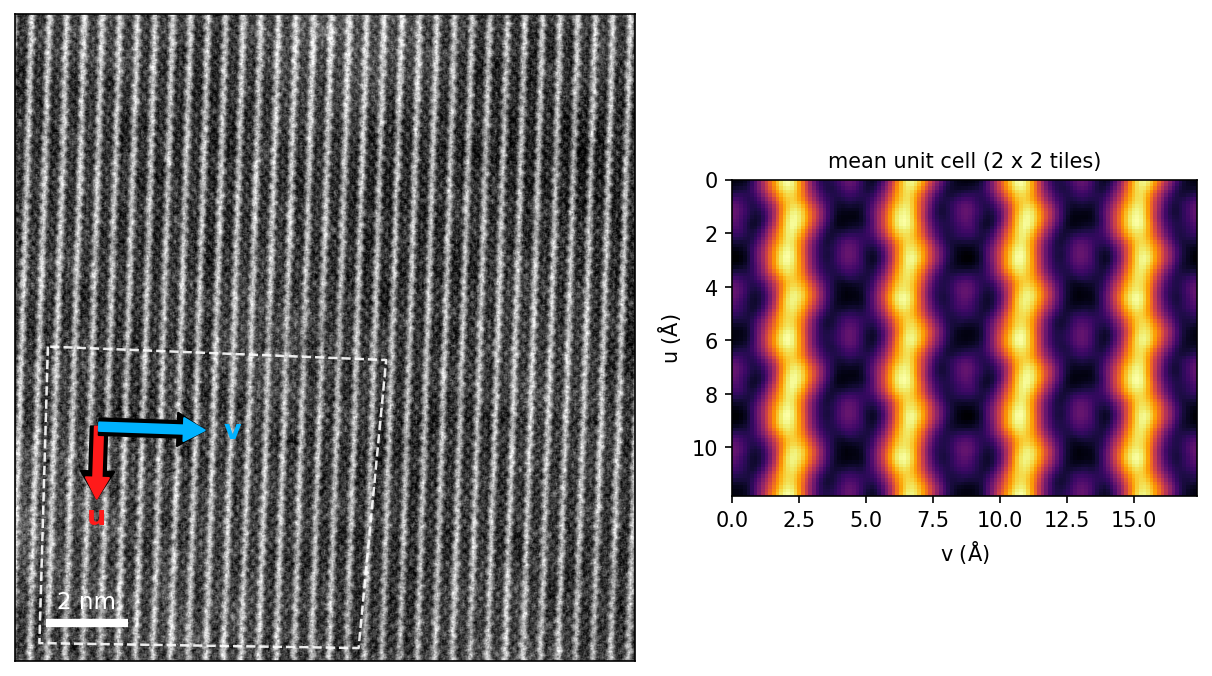
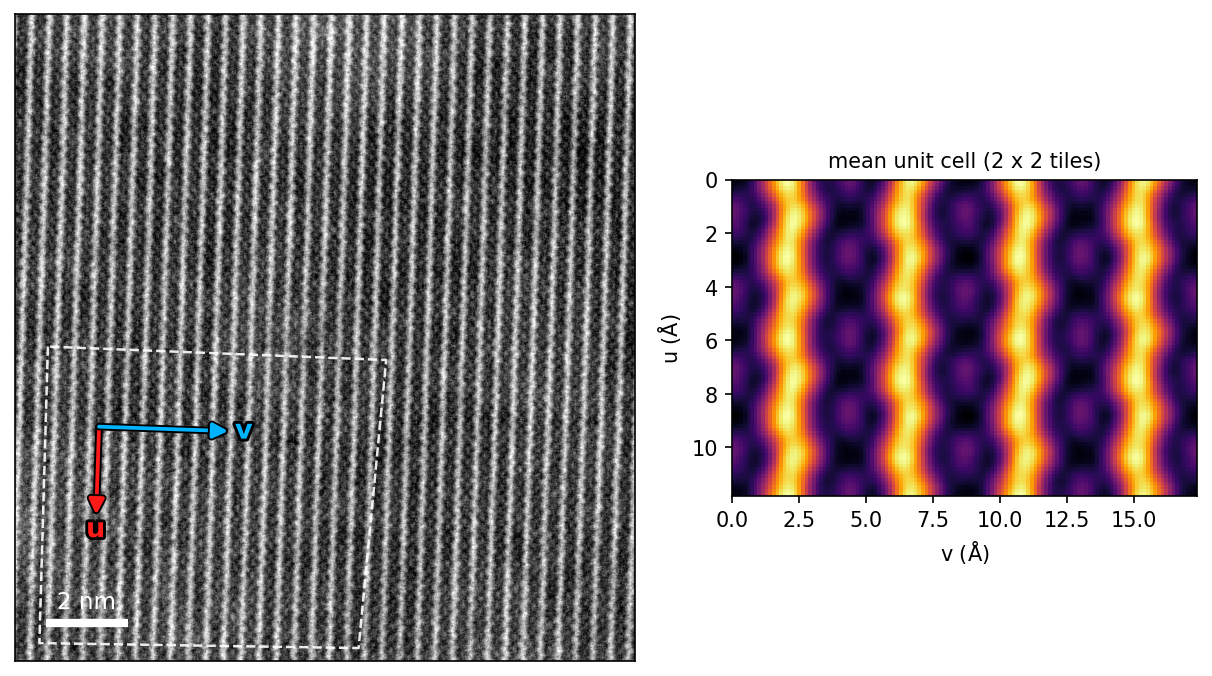
minor fixes

Changed region(s): [[0.0611, 0.6213, 0.2137, 0.8077]]

diff --git a/scripts/make_figures.py b/scripts/make_figures.py
@@ -15,6 +15,7 @@ import h5py
 import matplotlib
 
 matplotlib.use("Agg")
+import matplotlib.patheffects as pe
 import matplotlib.pyplot as plt
 import numpy as np
 
@@ -413,20 +414,23 @@ for key, cfg in ZAS.items():
     ax.imshow(img, cmap="gray", vmin=lo, vmax=hi, origin="upper")
     pg = np.vstack([poly, poly[:1]])
     ax.plot(pg[:, 1], pg[:, 0], "--", color="w", lw=1.2, alpha=0.9)
+    # one shared multiple for both vectors, so the drawn arrows keep the true
+    # length ratio of u and v; the longer one spans 20% of the image
     o = lat[0]
+    kk = 0.20 * max(img.shape) / max(np.linalg.norm(lat[1]),
+                                     np.linalg.norm(lat[2]))
     for vec, col, name in ((lat[1], C_U, "u"), (lat[2], C_V, "v")):
-        k = max(3.0, 0.07 * img.shape[1] / np.linalg.norm(vec))
-        ax.annotate("", xy=(o[1] + k * vec[1], o[0] + k * vec[0]),
-                    xytext=(o[1], o[0]),
-                    arrowprops=dict(color="k", width=8.0, headwidth=16,
-                                    headlength=13))
-        ax.annotate("", xy=(o[1] + k * vec[1], o[0] + k * vec[0]),
-                    xytext=(o[1], o[0]),
-                    arrowprops=dict(color=col, width=4.0, headwidth=11,
-                                    headlength=10))
-        ax.text(o[1] + (k + 0.8) * vec[1], o[0] + (k + 0.8) * vec[0], name,
-                color=col, fontsize=13, fontweight="bold", ha="center",
-                va="center")
+        tip = o + kk * vec
+        ann = ax.annotate("", xy=(tip[1], tip[0]), xytext=(o[1], o[0]),
+                          arrowprops=dict(arrowstyle="-|>", color=col,
+                                          linewidth=1.8, mutation_scale=15,
+                                          shrinkA=0, shrinkB=0))
+        ann.arrow_patch.set_path_effects(
+            [pe.withStroke(linewidth=3.6, foreground="k")])
+        lab = tip + 24.0 * vec / np.linalg.norm(vec)
+        ax.text(lab[1], lab[0], name, color=col, fontsize=13,
+                fontweight="bold", ha="center", va="center",
+                path_effects=[pe.withStroke(linewidth=2.8, foreground="k")])
     # scale bar: 2 nm
     bar = 20.0 / px
     y0, x0 = img.shape[0] * 0.94, img.shape[1] * 0.05
